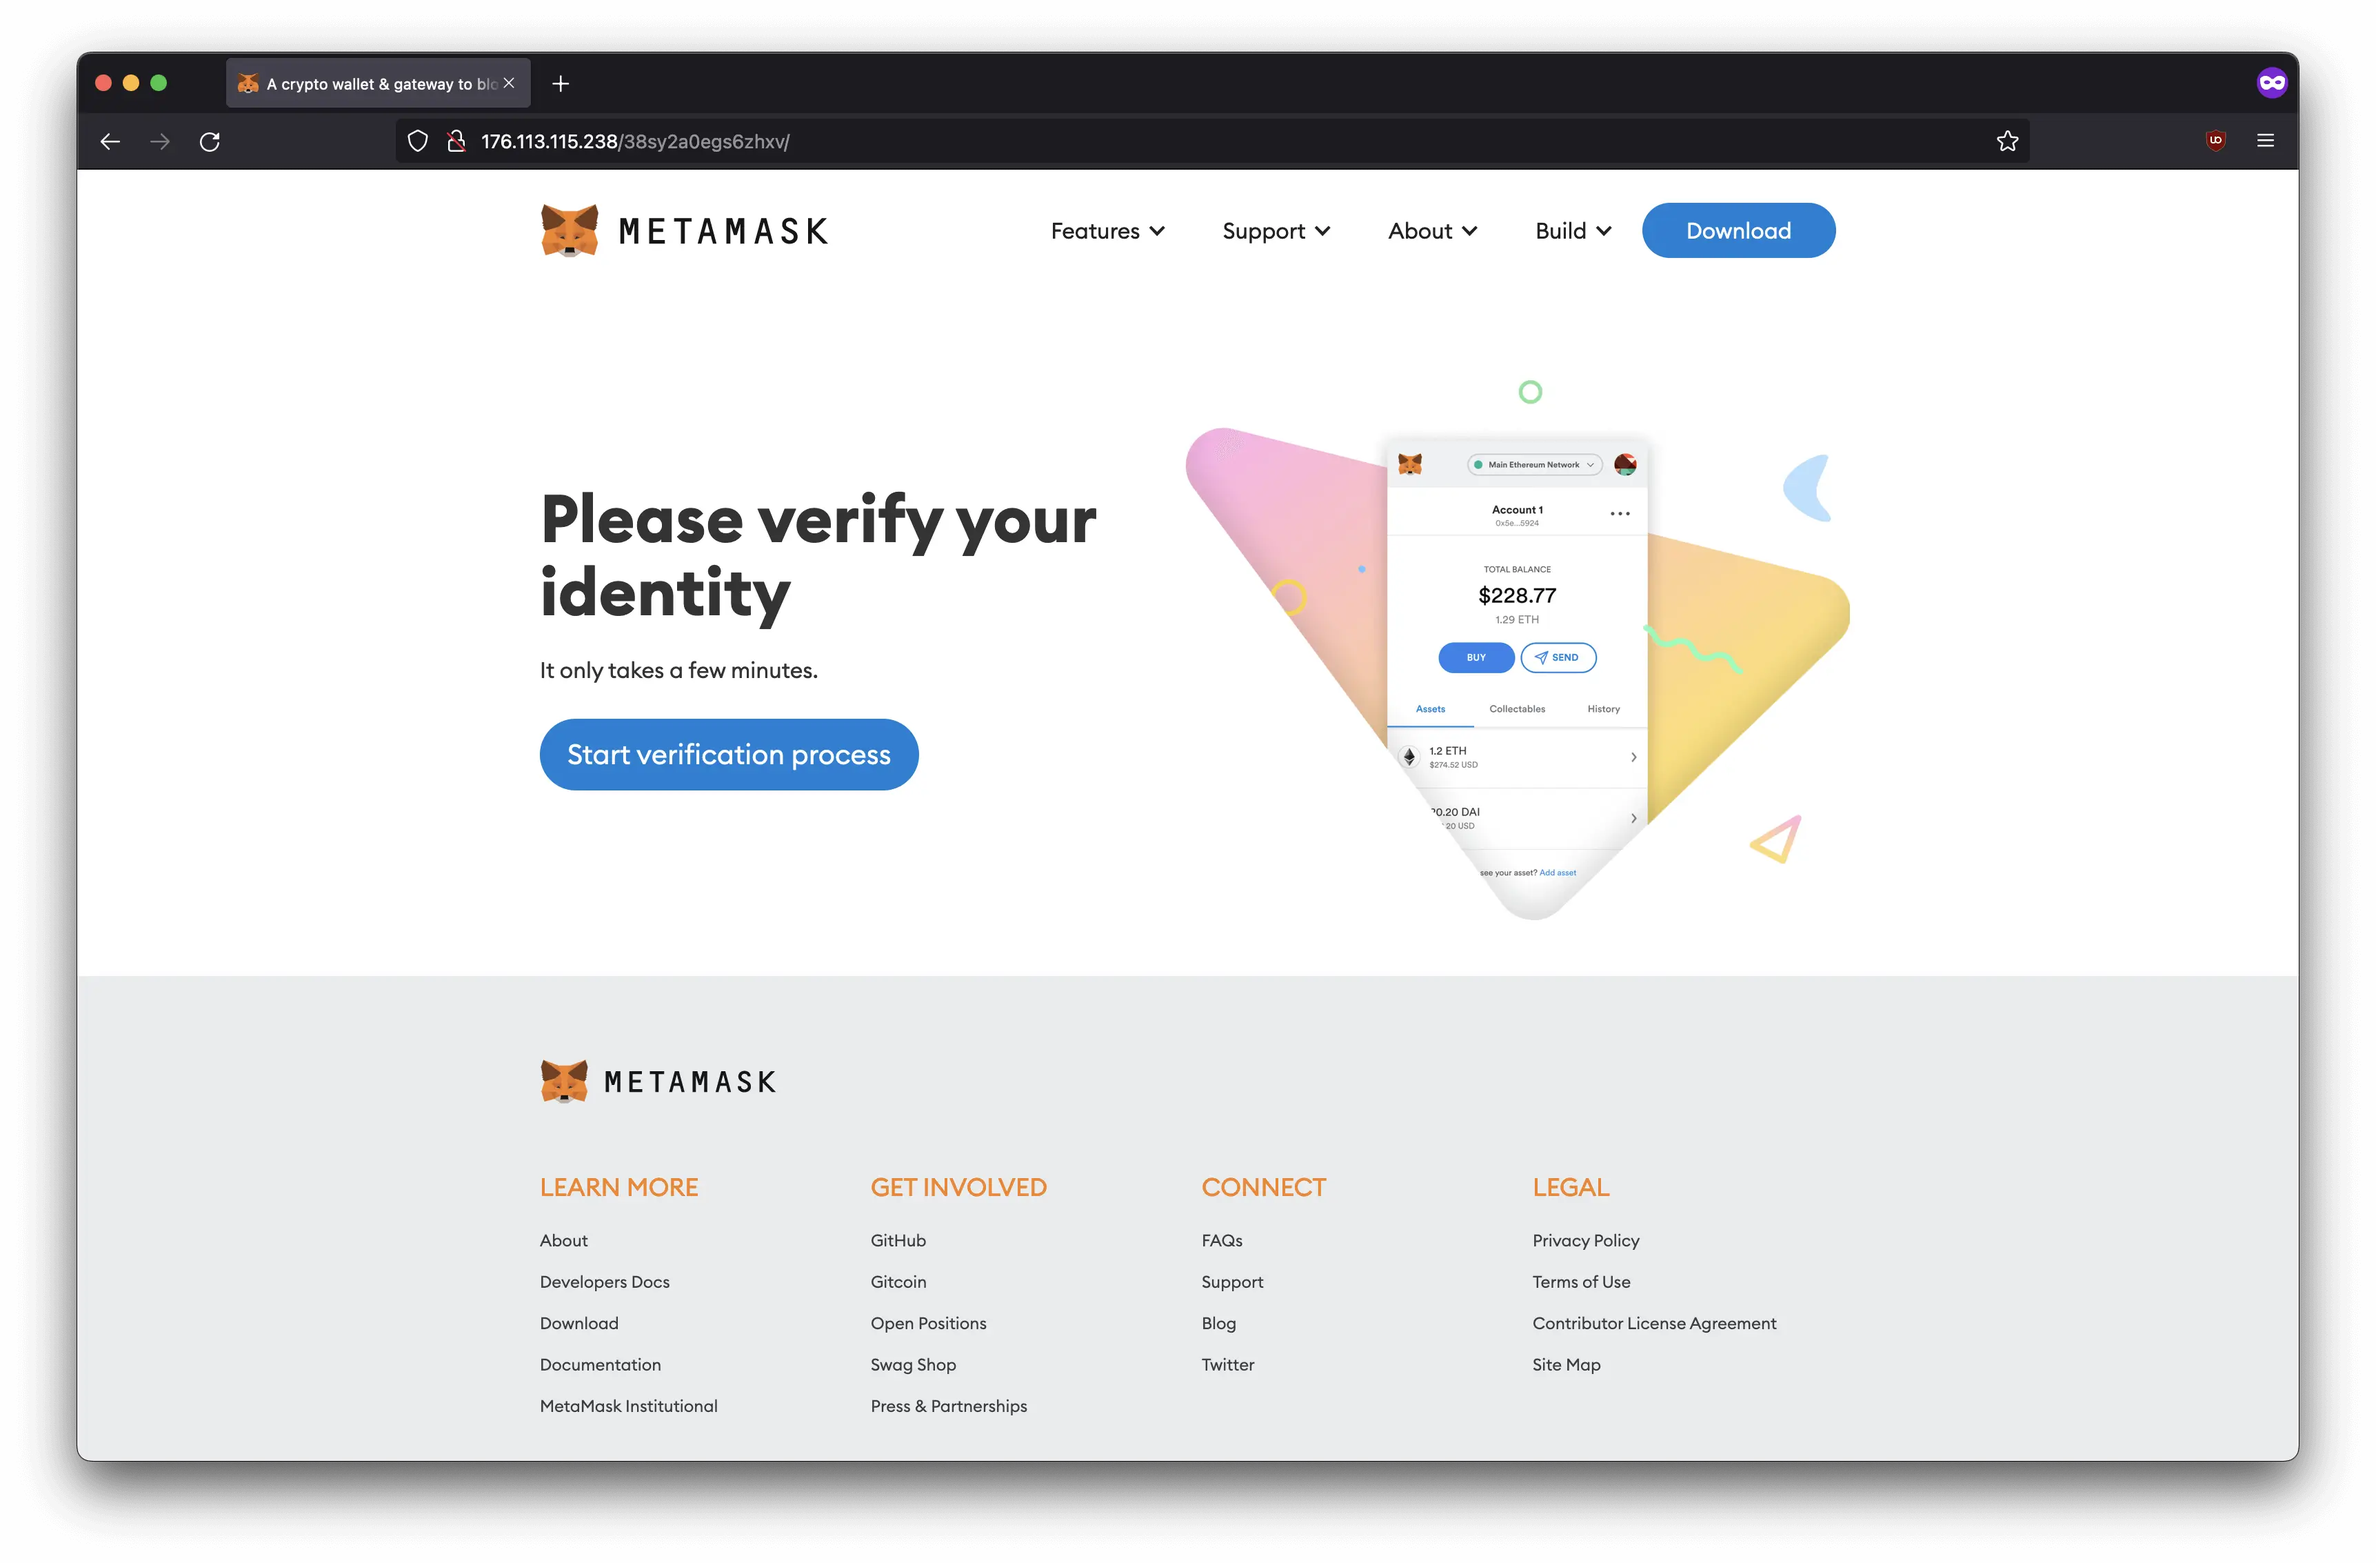
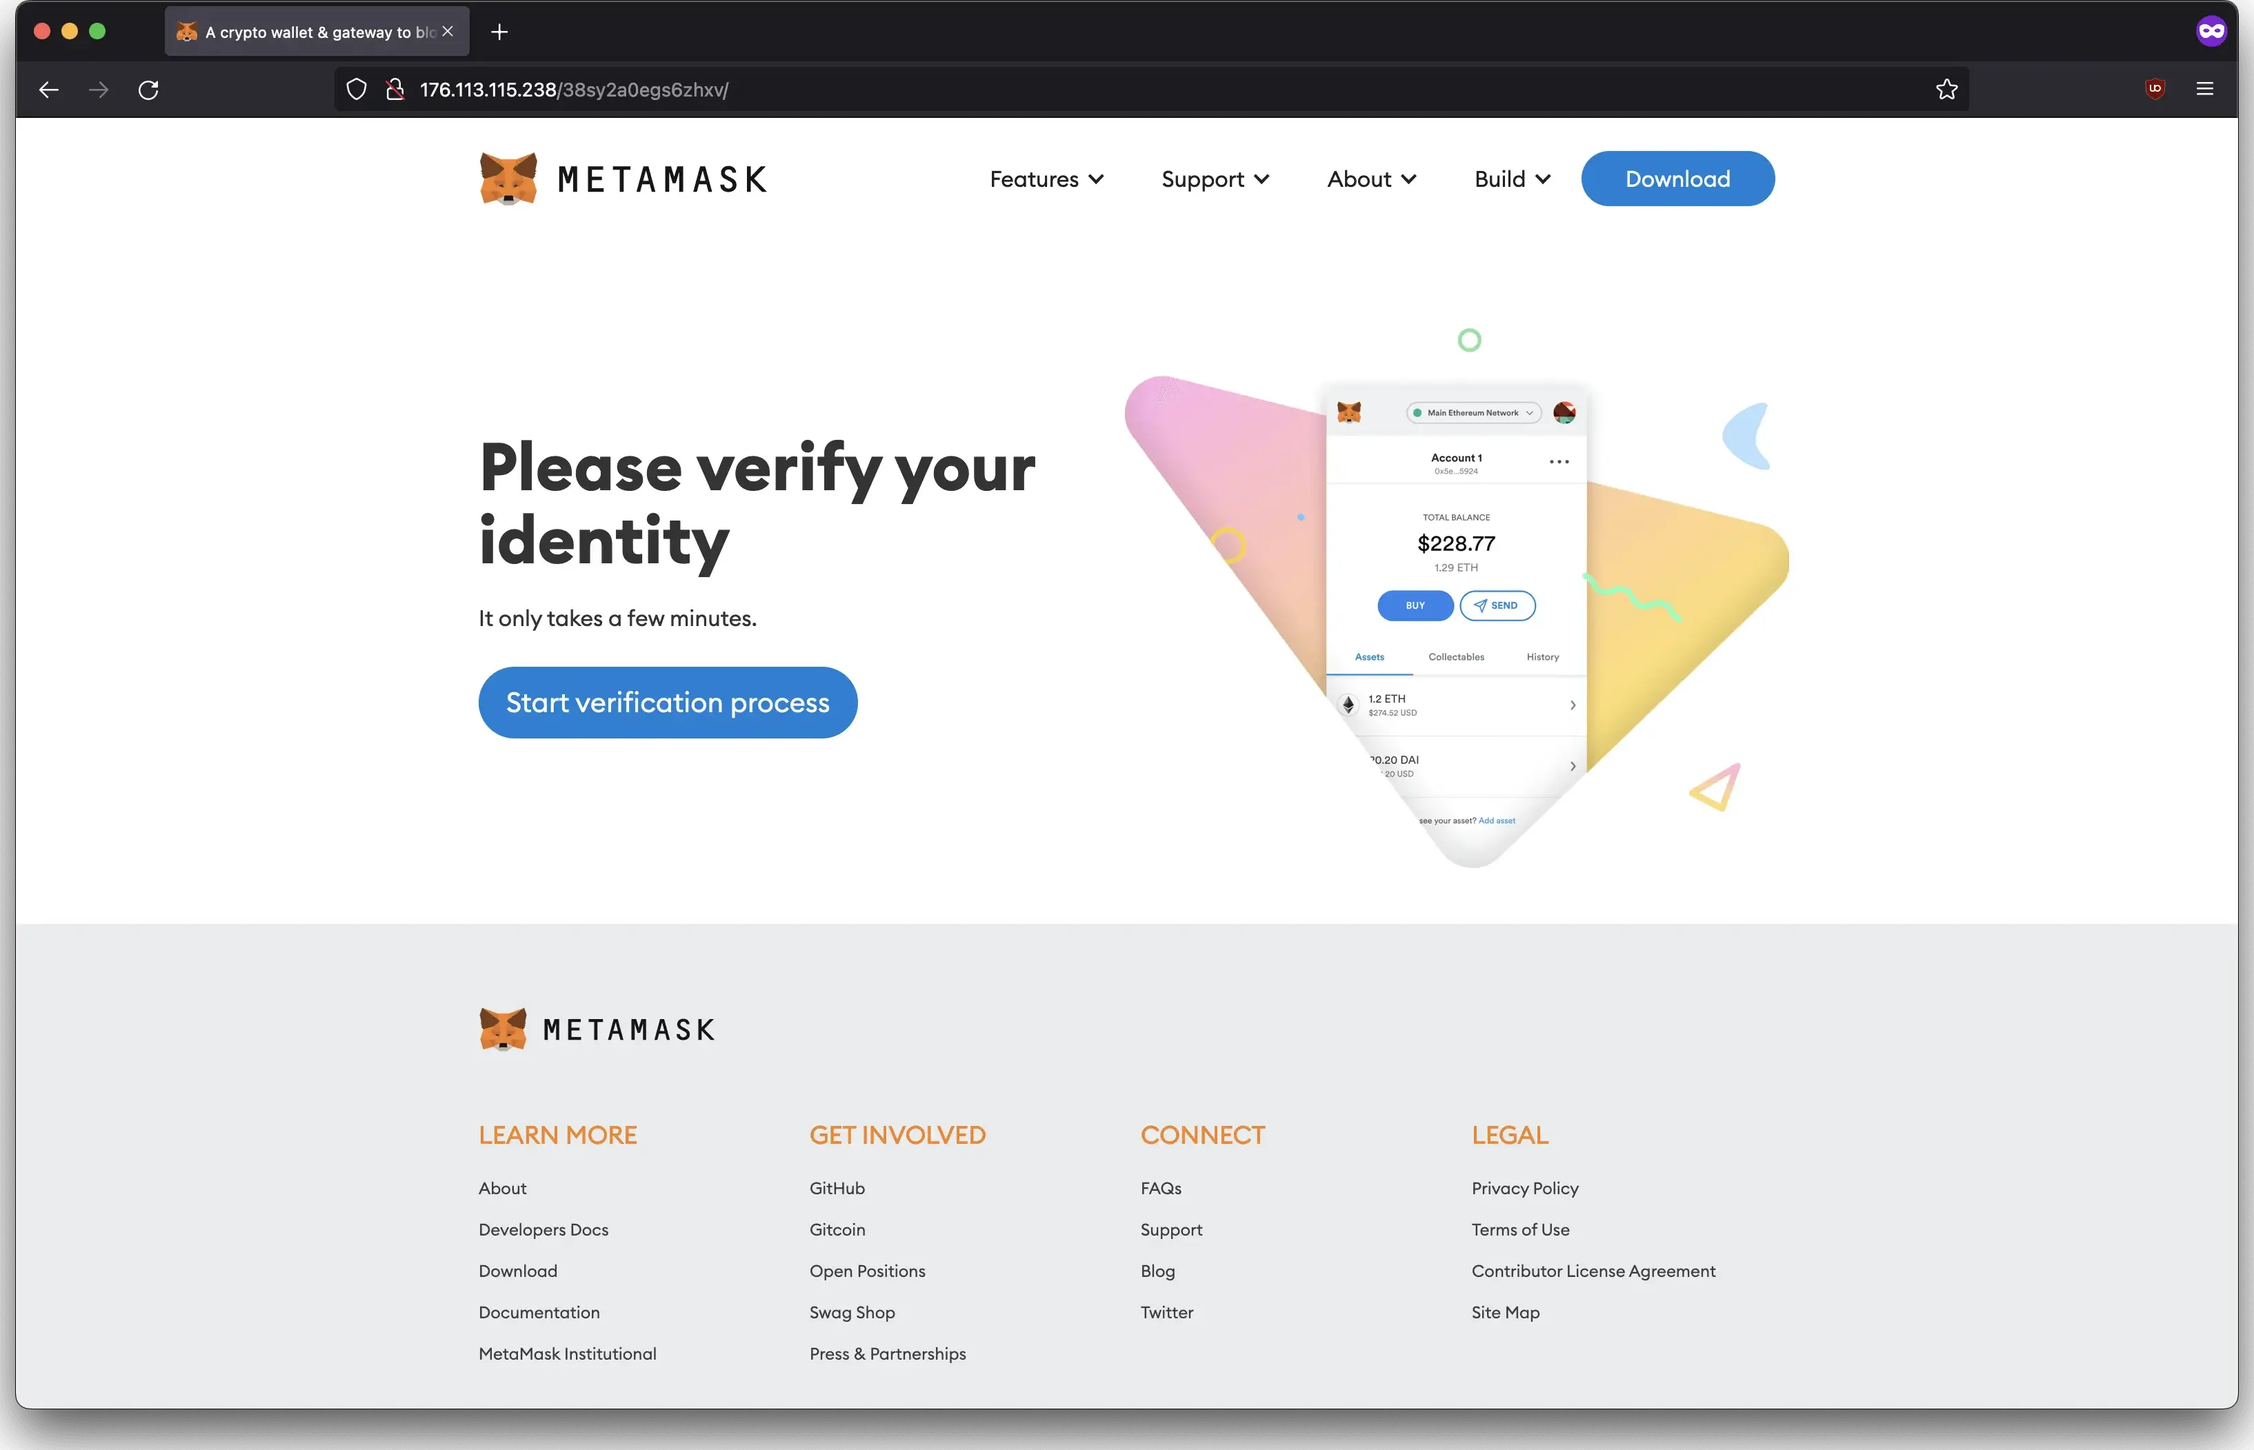
trimmed images to remove as much shadow as possible

diff --git a/content/posts/2022-04-28-retaliating-against-metamask-scammers-with-python.md b/content/posts/2022-04-28-retaliating-against-metamask-scammers-with-python.md
@@ -2,7 +2,7 @@
 title = "Retaliating Against MetaMask Scammers With Python"
 summary = "Using Python to send fake seed phrases to a MetaMask scam site."
 date = "2022-04-28"
-lastmod = "2022-04-28"
+lastmod = "2025-08-03"
 categories = ["Cybersecurity", "Python"]
 +++
 
